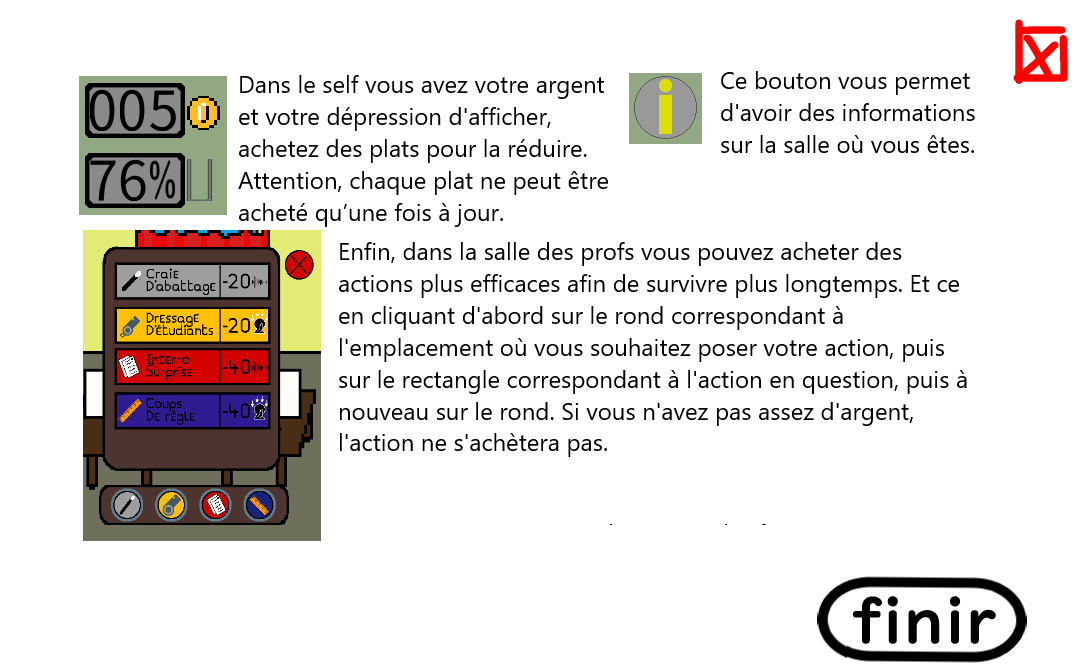
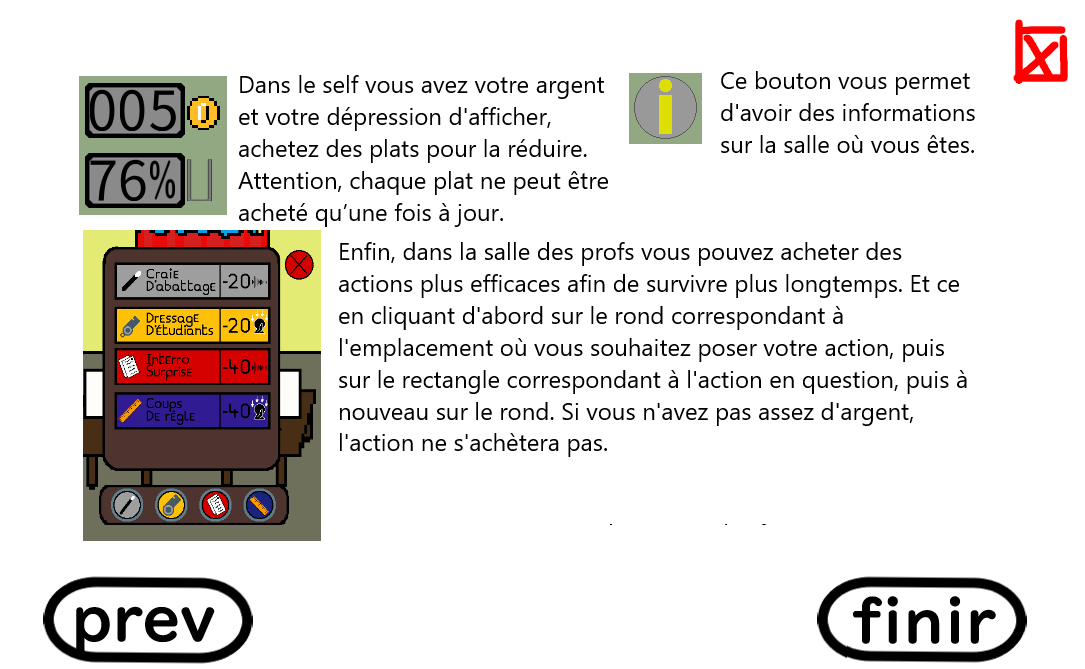
last ptit modif

Changed region(s): [[0.0304, 0.8371, 0.2433, 1.0]]

diff --git a/src/tuto.c b/src/tuto.c
@@ -44,11 +44,9 @@ void tuto(SDL_Renderer *renderer, SDL_Window *window)
 						}	
 						if((event.button.x < NEXT_TUTO_X_MAX && event.button.x > NEXT_TUTO_X_MIN)&&(event.button.y < NEXT_TUTO_Y_MAX && event.button.y > NEXT_TUTO_Y_MIN))
 						{
-							/*si on clique sur le tuto*/
+							/*si on clique sur le next*/
 							
 							page++;
-
-							SDL_SetRenderTarget(renderer, NULL);// Dorénavent, on modifie à nouveau le renderer
 
 							switch(page)
 							{
@@ -60,13 +58,10 @@ void tuto(SDL_Renderer *renderer, SDL_Window *window)
 
 							SDL_RenderPresent(renderer);
 						}	
-						if((event.button.x < PREV_TUTO_X_MAX && event.button.x > PREV_TUTO_X_MIN)&&(event.button.y < PREV_TUTO_Y_MAX && event.button.y > PREV_TUTO_Y_MIN) && page < 1)
+						if((event.button.x < PREV_TUTO_X_MAX && event.button.x > PREV_TUTO_X_MIN)&&(event.button.y < PREV_TUTO_Y_MAX && event.button.y > PREV_TUTO_Y_MIN) && page > 1)
 						{
-							/*si on clique sur le tuto*/
-							
+							/*si on clique sur le prev*/
 							page--;
-
-							SDL_SetRenderTarget(renderer, NULL);// Dorénavent, on modifie à nouveau le renderer
 
 							switch(page)
 							{
